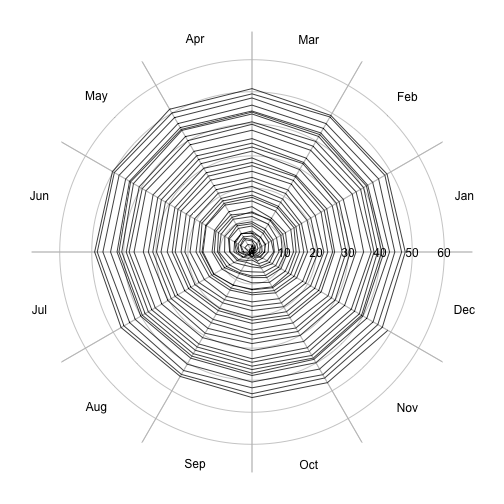
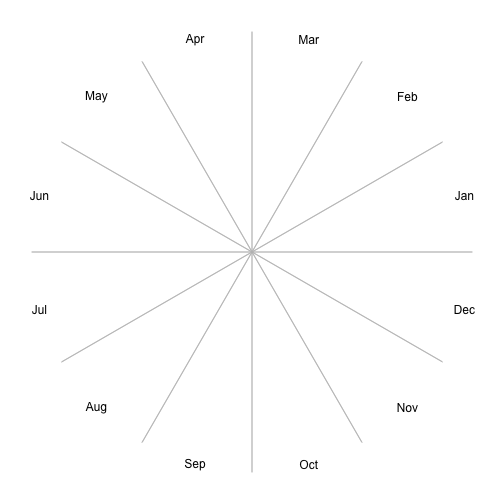
hodograph

diff --git a/_posts/2014-02-08-hodograph.md b/_posts/2014-02-08-hodograph.md
@@ -40,7 +40,7 @@ hodograph <- function(x, y, t, rings, tcut = c("daily", "yearly"), ...) {
             xx <- x * cos(day/365 * 2 * pi)
             yy <- x * sin(day/365 * 2 * pi)
             ## axes
-            if (!missing(rings)) 
+            if (missing(rings)) 
                 rings <- pretty(sqrt(xx^2 + yy^2))
             rscale <- 1.04 * max(rings)
             theta <- seq(0, 2 * pi, length.out = 200)
@@ -79,8 +79,10 @@ hodograph(x = co2 - co2[1], t = t, tcut = "yearly", type = "l")
 
 
 {% highlight text %}
-## Error: 'rings' is missing
+## Error: object 'R' not found
 {% endhighlight %}
+
+![center]({{ site.url }}/assets/2014-02-08-hodograph.png) 
 
 
 # Results
